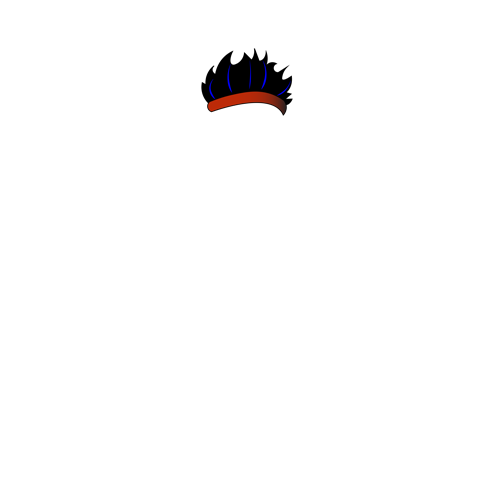
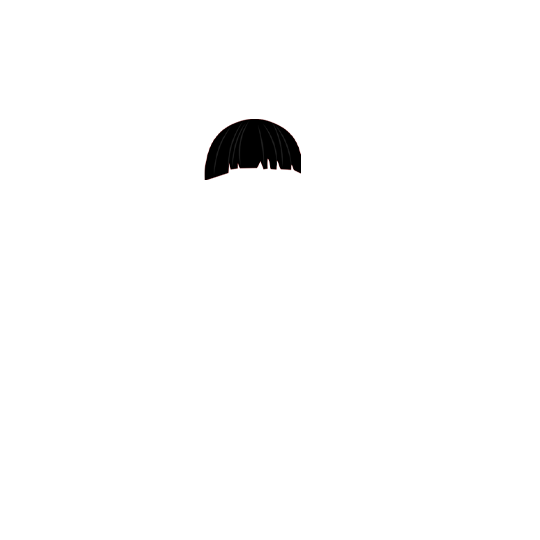
New grfx and size

Changed region(s): [[0.375, 0.0938, 0.625, 0.3438]]

diff --git a/src/geneHelpers.js b/src/geneHelpers.js
@@ -10,69 +10,69 @@ const clan = [
     { gene: '1000', name: 'Naha', img: '' },
 ];
 const base = [
-    { gene: '0000', name: 'body_1', img: '/images/base-3.png' },
-    { gene: '0001', name: 'body_2', img: '/images/base-3.png' },
-    { gene: '0010', name: 'body_3', img: '/images/base-3.png' },
-    { gene: '0011', name: 'body_4', img: '/images/base-3.png' },
-    { gene: '0100', name: 'body_5', img: '/images/base-3.png' },
-    { gene: '0101', name: 'body_6', img: '/images/base-3.png' },
-    { gene: '0110', name: 'body_7', img: '/images/base-3.png' },
-    { gene: '0111', name: 'body_8', img: '/images/base-3.png' },
+    { gene: '0000', name: 'body_1', img: '/images/base-1.png', hands: '/images/hands-1.png' },
+    { gene: '0001', name: 'body_2', img: '/images/base-1.png', hands: '/images/hands-1.png' },
+    { gene: '0010', name: 'body_3', img: '/images/base-2.png', hands: '/images/hands-2.png' },
+    { gene: '0011', name: 'body_4', img: '/images/base-2.png', hands: '/images/hands-2.png' },
+    { gene: '0100', name: 'body_5', img: '/images/base-2.png', hands: '/images/hands-2.png' },
+    { gene: '0101', name: 'body_6', img: '/images/base-3.png', hands: '/images/hands-3.png' },
+    { gene: '0110', name: 'body_7', img: '/images/base-3.png', hands: '/images/hands-3.png' },
+    { gene: '0111', name: 'body_8', img: '/images/base-3.png', hands: '/images/hands-3.png' },
 ];
 
 const eyes = [
-    { gene: '0000', name: 'eyes_1', img: '/images/eyes-4.png' },
-    { gene: '0001', name: 'eyes_2', img: '/images/eyes-4.png' },
-    { gene: '0010', name: 'eyes_3', img: '/images/eyes-4.png' },
+    { gene: '0000', name: 'eyes_1', img: '/images/eyes-1.png' },
+    { gene: '0001', name: 'eyes_2', img: '/images/eyes-2.png' },
+    { gene: '0010', name: 'eyes_3', img: '/images/eyes-3.png' },
     { gene: '0011', name: 'eyes_4', img: '/images/eyes-4.png' },
-    { gene: '0100', name: 'eyes_5', img: '/images/eyes-21.png' },
-    { gene: '0101', name: 'eyes_6', img: '/images/eyes-21.png' },
-    { gene: '0110', name: 'eyes_7', img: '/images/eyes-21.png' },
-    { gene: '0111', name: 'eyes_8', img: '/images/eyes-21.png' },
+    { gene: '0100', name: 'eyes_5', img: '/images/eyes-5.png' },
+    { gene: '0101', name: 'eyes_6', img: '/images/eyes-6.png' },
+    { gene: '0110', name: 'eyes_7', img: '/images/eyes-7.png' },
+    { gene: '0111', name: 'eyes_8', img: '/images/eyes-8.png' },
 ];
 
 const hair = [
-    { gene: '0000', name: 'hair_1', img: '/images/hair-5.png' },
-    { gene: '0001', name: 'hair_2', img: '/images/hair-5.png' },
-    { gene: '0010', name: 'hair_3', img: '/images/hair-5.png' },
-    { gene: '0011', name: 'hair_4', img: '/images/hair-5.png' },
-    { gene: '0100', name: 'hair_5', img: '/images/hair-20.png' },
-    { gene: '0101', name: 'hair_6', img: '/images/hair-20.png' },
-    { gene: '0110', name: 'hair_7', img: '/images/hair-20.png' },
-    { gene: '0111', name: 'hair_8', img: '/images/hair-20.png' },
+    { gene: '0000', name: 'hair_1', img: '/images/hair-1.png' },
+    { gene: '0001', name: 'hair_2', img: '/images/hair-2.png' },
+    { gene: '0010', name: 'hair_3', img: '/images/hair-3.png' },
+    { gene: '0011', name: 'hair_4', img: '/images/hair-4.png' },
+    { gene: '0100', name: 'hair_5', img: '/images/hair-5.png' },
+    { gene: '0101', name: 'hair_6', img: '/images/hair-6.png' },
+    { gene: '0110', name: 'hair_7', img: '/images/hair-7.png' },
+    { gene: '0111', name: 'hair_8', img: '/images/hair-8.png' },
 ];
 
 const mouth = [
-    { gene: '0000', name: 'mouth_1', img: '/images/mouth-14.png' },
-    { gene: '0001', name: 'mouth_2', img: '/images/mouth-14.png' },
-    { gene: '0010', name: 'mouth_3', img: '/images/mouth-15.png' },
-    { gene: '0011', name: 'mouth_4', img: '/images/mouth-15.png' },
-    { gene: '0100', name: 'mouth_5', img: '/images/mouth-15.png' },
-    { gene: '0101', name: 'mouth_6', img: '/images/mouth-16.png' },
-    { gene: '0110', name: 'mouth_7', img: '/images/mouth-16.png' },
-    { gene: '0111', name: 'mouth_8', img: '/images/mouth-16.png' },
+    { gene: '0000', name: 'mouth_1', img: '/images/mouth-1.png' },
+    { gene: '0001', name: 'mouth_2', img: '/images/mouth-2.png' },
+    { gene: '0010', name: 'mouth_3', img: '/images/mouth-3.png' },
+    { gene: '0011', name: 'mouth_4', img: '/images/mouth-4.png' },
+    { gene: '0100', name: 'mouth_5', img: '/images/mouth-1.png' },
+    { gene: '0101', name: 'mouth_6', img: '/images/mouth-2.png' },
+    { gene: '0110', name: 'mouth_7', img: '/images/mouth-3.png' },
+    { gene: '0111', name: 'mouth_8', img: '/images/mouth-4.png' },
 ];
 
 const uniform = [
-    { gene: '0000', name: 'uniform_1', img: '/images/uni-18.png' },
-    { gene: '0001', name: 'uniform_2', img: '/images/uni-18.png' },
-    { gene: '0010', name: 'uniform_3', img: '/images/uni-18.png' },
-    { gene: '0011', name: 'uniform_4', img: '/images/uni-17.png' },
-    { gene: '0100', name: 'uniform_5', img: '/images/uni-17.png' },
-    { gene: '0101', name: 'uniform_6', img: '/images/uni-17.png' },
-    { gene: '0110', name: 'uniform_7', img: '/images/uni-19.png' },
-    { gene: '0111', name: 'uniform_8', img: '/images/uni-19.png' },
+    { gene: '0000', name: 'uniform_1', img: '/images/uni-1.png' },
+    { gene: '0001', name: 'uniform_2', img: '/images/uni-2.png' },
+    { gene: '0010', name: 'uniform_3', img: '/images/uni-3.png' },
+    { gene: '0011', name: 'uniform_4', img: '/images/uni-4.png' },
+    { gene: '0100', name: 'uniform_5', img: '/images/uni-5.png' },
+    { gene: '0101', name: 'uniform_6', img: '/images/uni-6.png' },
+    { gene: '0110', name: 'uniform_7', img: '/images/uni-7.png' },
+    { gene: '0111', name: 'uniform_8', img: '/images/uni-8.png' },
 ];
 
 const weapon = [    
-    { gene: '0000', name: 'weapon_1', img: '/images/weapon-7.png' },
-    { gene: '0001', name: 'weapon_2', img: '/images/weapon-8.png' },
-    { gene: '0010', name: 'weapon_3', img: '/images/weapon-9.png' },
-    { gene: '0011', name: 'weapon_4', img: '/images/weapon-10.png' },
-    { gene: '0100', name: 'weapon_5', img: '/images/weapon-11.png' },
-    { gene: '0101', name: 'weapon_6', img: '/images/weapon-12.png' },
-    { gene: '0110', name: 'weapon_7', img: '/images/weapon-13.png' },
-    { gene: '0111', name: 'weapon_8', img: '/images/weapon-7.png' },
+    { gene: '0000', name: 'weapon_1', img: '/images/weapon-1.png' },
+    { gene: '0001', name: 'weapon_2', img: '/images/weapon-2.png' },
+    { gene: '0010', name: 'weapon_3', img: '/images/weapon-3.png' },
+    { gene: '0011', name: 'weapon_4', img: '/images/weapon-4.png' },
+    { gene: '0100', name: 'weapon_5', img: '/images/weapon-5.png' },
+    { gene: '0101', name: 'weapon_6', img: '/images/weapon-6.png' },
+    { gene: '0110', name: 'weapon_7', img: '/images/weapon-7.png' },
+    { gene: '0111', name: 'weapon_8', img: '/images/weapon-1.png' },
 ];
 
 function getRandomInt(max) {

diff --git a/src/components/PlayerView.js b/src/components/PlayerView.js
@@ -9,7 +9,7 @@ import Hair from './Hair';
 import Uniform from './Uniform';
 import Weapon from './Weapon';
 
-import { getRandomDNA } from '../geneHelpers';
+import { getRandomDNA, getBase } from '../geneHelpers';
 
 
 const PlayerView = (props) => {
@@ -21,18 +21,14 @@ const PlayerView = (props) => {
     const [ showUniform, setShowUniform ] = useState(true);
     const [ showWeapon, setShowWeapon ] = useState(true);
 
-    let p1_dna = getRandomDNA();
-    let p1_r1 = getRandomDNA();
-    let p1_r2 = getRandomDNA();
-
-    let p2_dna = getRandomDNA();
-    let p2_r1 = getRandomDNA();
-    let p2_r2 = getRandomDNA();
-
-    // console.log(p1_dna);
-    // console.log(showClan);
     let face = false;
     if(props.reverse) face=true;
+
+    const handleChangeBase = (layer) => {
+        setShowBase(!layer);
+    }
+
+    let base = getBase(props.dna);
 
     return (
         <div className='playerContainer'>
@@ -47,7 +43,7 @@ const PlayerView = (props) => {
                 <Hair dna={props.dna} visible={showHair} face={face} />
                 <Uniform dna={props.dna} visible={showUniform} face={face} />
                 <Weapon dna={props.dna} visible={showWeapon} face={face} />
-                { !face ? <img src='/images/fists-3.png' className='bodyParts' alt="pon" /> : <img src='/images/fists-3.png' className='bodyPartsRev' alt="pon" /> }
+                { !face ? <img src={base.hands} className='bodyParts' alt="pon" /> : <img src={base.hands} className='bodyPartsRev' alt="pon" /> }
             </div>
         </div>
     );

diff --git a/src/App.js b/src/App.js
@@ -1,20 +1,23 @@
 import './App.css';
 import './components/PlayerView';
 
-import { useState, useEffect } from 'react';
 import PlayerView from './components/PlayerView';
-
-import { getRandomDNA } from './geneHelpers';
+import { getRandomDNA, getBase } from './geneHelpers';
 
 function App() {
+
+
+  let p1 = { dna: getRandomDNA(), r1: getRandomDNA(), r2: getRandomDNA() };
+  let p2 = { dna: getRandomDNA(), r1: getRandomDNA(), r2: getRandomDNA() };
+  console.log(p1);
 
 
 
   return (
     <div className="App">
       <div className='senseiContainer'>
-      <PlayerView dna={getRandomDNA()} r1={getRandomDNA()} r2={getRandomDNA()} />
-      <PlayerView reverse dna={getRandomDNA()} r1={getRandomDNA()} r2={getRandomDNA()} />
+        <PlayerView dna={p1.dna} r1={getRandomDNA()} r2={getRandomDNA()} />
+        <PlayerView reverse dna={p2.dna} r1={getRandomDNA()} r2={getRandomDNA()} />
       </div>
     </div>
   );

diff --git a/src/components/PlayerView.css b/src/components/PlayerView.css
@@ -1,6 +1,6 @@
 .playerImage {
-    width: 480px;
-    height: 480px;
+    width: 540px;
+    height: 540px;
     position: relative;
     background: linear-gradient(
         rgba(38, 38, 38, 0.9), 
@@ -24,7 +24,7 @@
 }
 
 .playerContainer {
-    width: 540px;
+    width: 640px;
     text-align: left;
 }
 
